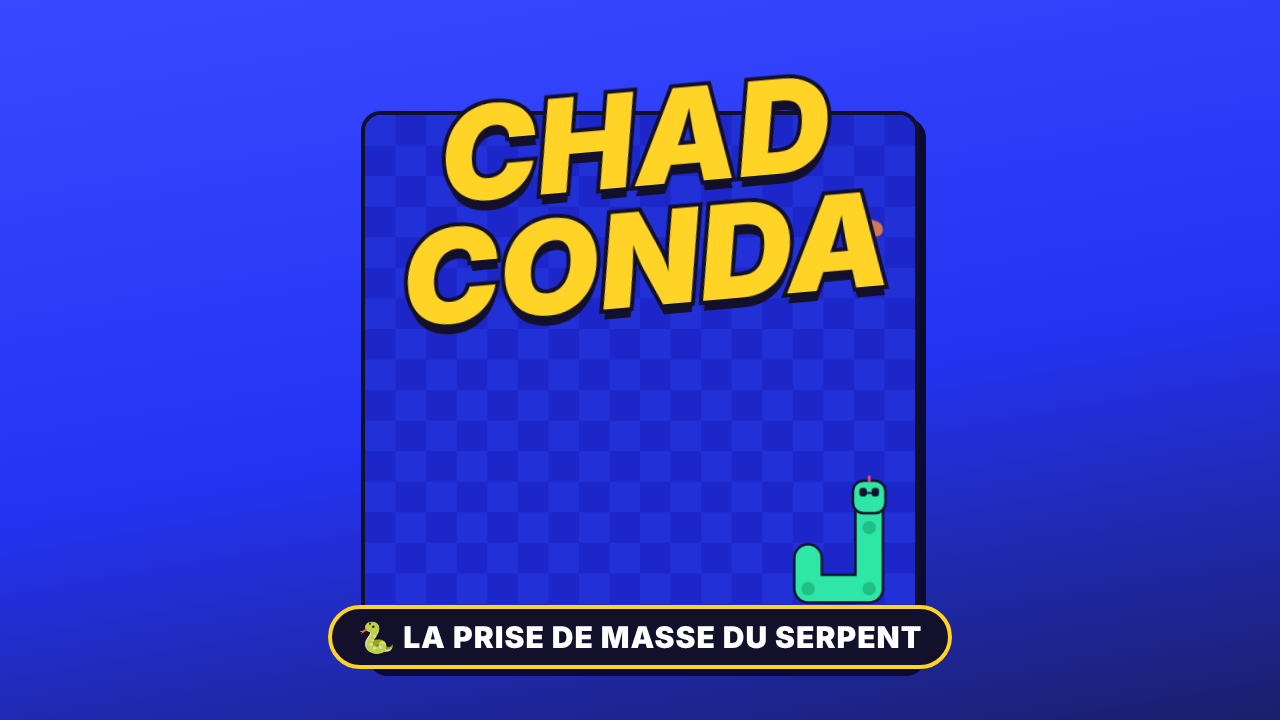
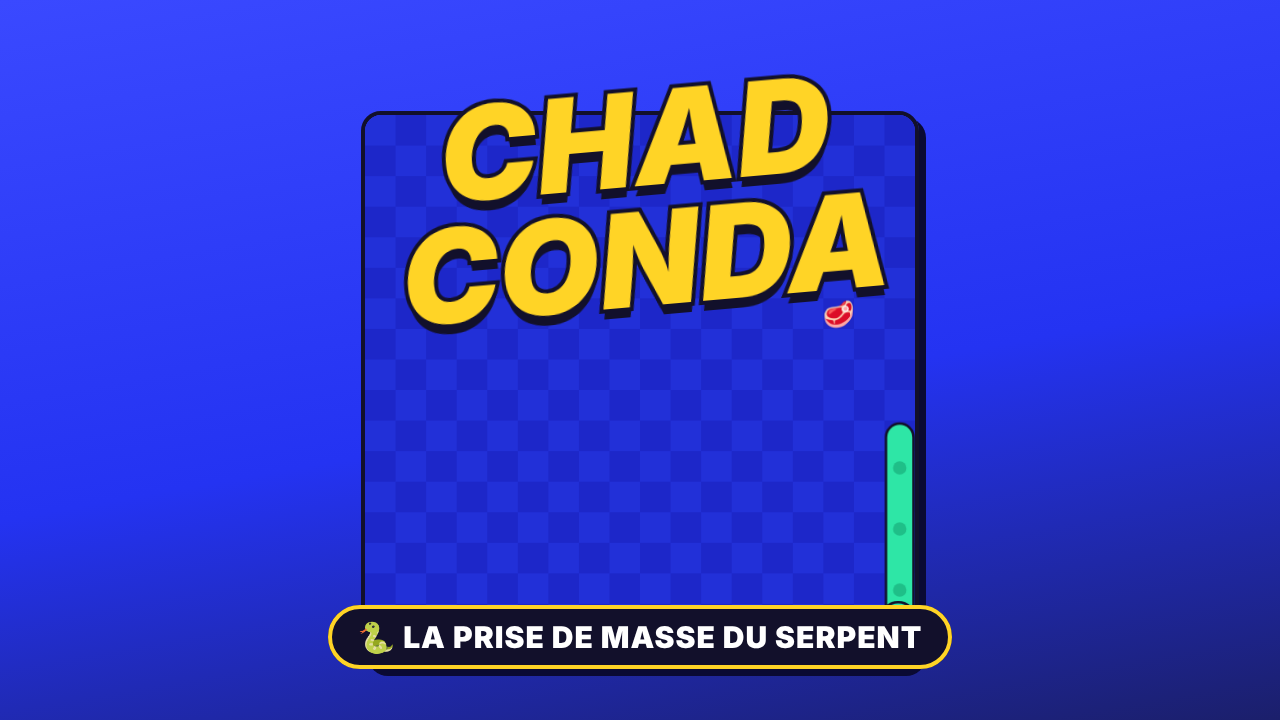
A

Changed region(s): [[0.5938, 0.5806, 0.7188, 0.8556], [0.625, 0.4278, 0.6875, 0.4583], [0.6562, 0.3056, 0.6875, 0.3361]]

diff --git a/index.html b/index.html
@@ -156,8 +156,8 @@ const cv=$('cv'),ctx=cv.getContext('2d');
 const N=18;let px=20,dpr=1;
 function resize(){dpr=Math.min(2,devicePixelRatio||1);const s=Math.floor(Math.min(innerWidth-24,innerHeight-150,620)/N);px=Math.max(14,s);cv.width=N*px*dpr;cv.height=N*px*dpr;cv.style.width=N*px+'px';cv.style.height=N*px+'px'}
 addEventListener('resize',resize);resize();
-let snake,dir,queue,food,gold,score,tick,acc2,stepMs,parts,dead,deadT,grow,eaten,t=0;
-function reset(){snake=[{x:5,y:9},{x:4,y:9},{x:3,y:9}];dir={x:1,y:0};queue=[];score=0;stepMs=135;acc2=0;parts=[];dead=false;deadT=0;grow=0;eaten=0;gold=null;placeFood();CG.setScore(0)}
+let prev=[],pdir={x:1,y:0},snake,dir,queue,food,gold,score,tick,acc2,stepMs,parts,dead,deadT,grow,eaten,t=0;
+function reset(){snake=[{x:5,y:9},{x:4,y:9},{x:3,y:9}];prev=snake.map(s=>({...s}));pdir={x:1,y:0};dir={x:1,y:0};queue=[];score=0;stepMs=135;acc2=0;parts=[];dead=false;deadT=0;grow=0;eaten=0;gold=null;placeFood();CG.setScore(0)}
 function free(){const occ=new Set(snake.map(s=>s.x+','+s.y));if(food)occ.add(food.x+','+food.y);if(gold)occ.add(gold.x+','+gold.y);const l=[];for(let y=0;y<N;y++)for(let x=0;x<N;x++)if(!occ.has(x+','+y))l.push({x,y});return l[Math.random()*l.length|0]}
 function placeFood(){food=free();food.e=Math.random()<.5?'🍗':'🥩'}
 function turn(x,y){if(CG.state!=='play')return;const last=queue.length?queue[queue.length-1]:dir;if(last.x===-x&&last.y===-y||last.x===x&&last.y===y)return;if(queue.length<3)queue.push({x,y})}
@@ -168,6 +168,7 @@ addEventListener('pointermove',e=>{if(sid!==e.pointerId)return;const dx=e.client
 addEventListener('pointerup',()=>{sid=null});
 function burst(x,y,c,n){for(let i=0;i<n;i++){const a=Math.random()*7,v=1+Math.random()*3;parts.push({x:(x+.5)*px,y:(y+.5)*px,vx:Math.cos(a)*v,vy:Math.sin(a)*v,l:30,c})}}
 function move(){
+  prev=snake.map(s=>({...s}));pdir={...dir};
   if(queue.length)dir=queue.shift();
   const h={x:snake[0].x+dir.x,y:snake[0].y+dir.y};
   const willGrow=grow>0||(h.x===food.x&&h.y===food.y)||(gold&&h.x===gold.x&&h.y===gold.y);
@@ -198,14 +199,17 @@ function draw(){
   // serpent
   const n=snake.length;
   ctx.lineCap='round';ctx.lineJoin='round';
-  const path=()=>{ctx.beginPath();snake.forEach((s,i)=>{const X=(s.x+.5)*px,Y=(s.y+.5)*px;i?ctx.lineTo(X,Y):ctx.moveTo(X,Y)})};
+  // position lissée entre deux cases (le serpent glisse au lieu d'avancer par à-coups)
+  const P=snake.map((s,i)=>{const a=prev[i]||prev[prev.length-1]||s;return{x:a.x+(s.x-a.x)*k,y:a.y+(s.y-a.y)*k}});
+  const pts=[];P.forEach((q,i)=>{pts.push(q);if(i<snake.length-1)pts.push(snake[i+1]) /* passe par le centre de la case : virages propres */});
+  const path=()=>{ctx.beginPath();pts.forEach((q,i)=>{const X=(q.x+.5)*px,Y=(q.y+.5)*px;i?ctx.lineTo(X,Y):ctx.moveTo(X,Y)})};
   path();ctx.strokeStyle='#12102b';ctx.lineWidth=px*.82+5;ctx.stroke();
   path();ctx.strokeStyle='#2ee6a6';ctx.lineWidth=px*.82;ctx.stroke();
   // rayures
-  for(let i=1;i<n;i+=2){const s=snake[i];ctx.fillStyle='#1fbf88';ctx.beginPath();ctx.arc((s.x+.5)*px,(s.y+.5)*px,px*.22,0,7);ctx.fill()}
-  {const s=snake[0];ctx.fillStyle='#2ee6a6';ctx.strokeStyle='#12102b';ctx.lineWidth=2.5;rr(s.x*px-1,s.y*px-1,px+2,px+2,px*.35);ctx.fill();ctx.stroke()}
+  for(let i=1;i<n;i+=2){const s=P[i];ctx.fillStyle='#1fbf88';ctx.beginPath();ctx.arc((s.x+.5)*px,(s.y+.5)*px,px*.22,0,7);ctx.fill()}
+  {const s=P[0];ctx.fillStyle='#2ee6a6';ctx.strokeStyle='#12102b';ctx.lineWidth=2.5;ctx.beginPath();ctx.arc((s.x+.5)*px,(s.y+.5)*px,px*.56,0,7);ctx.fill();ctx.stroke()}
   // tête : lunettes + mâchoire
-  const h=snake[0],cxh=(h.x+.5)*px,cyh=(h.y+.5)*px;ctx.save();ctx.translate(cxh,cyh);ctx.rotate(Math.atan2(dir.y,dir.x));
+  const h=P[0],cxh=(h.x+.5)*px,cyh=(h.y+.5)*px;ctx.save();ctx.translate(cxh,cyh);let a0=Math.atan2(pdir.y,pdir.x),a1=Math.atan2(snake[0].y-(prev[0]||snake[0]).y,snake[0].x-(prev[0]||snake[0]).x);let da=a1-a0;while(da>Math.PI)da-=2*Math.PI;while(da<-Math.PI)da+=2*Math.PI;ctx.rotate(a0+da*Math.min(1,k*1.6));
   ctx.fillStyle='#12102b';rr(px*.02,-px*.32,px*.28,px*.24,3);ctx.fill();rr(px*.02,px*.08,px*.28,px*.24,3);ctx.fill();ctx.fillRect(px*.1,-px*.1,px*.06,px*.2);
   if(t%40<20){ctx.fillStyle='#ff4f6d';ctx.fillRect(px*.48,-px*.04,px*.22,px*.08)}
   ctx.restore();
